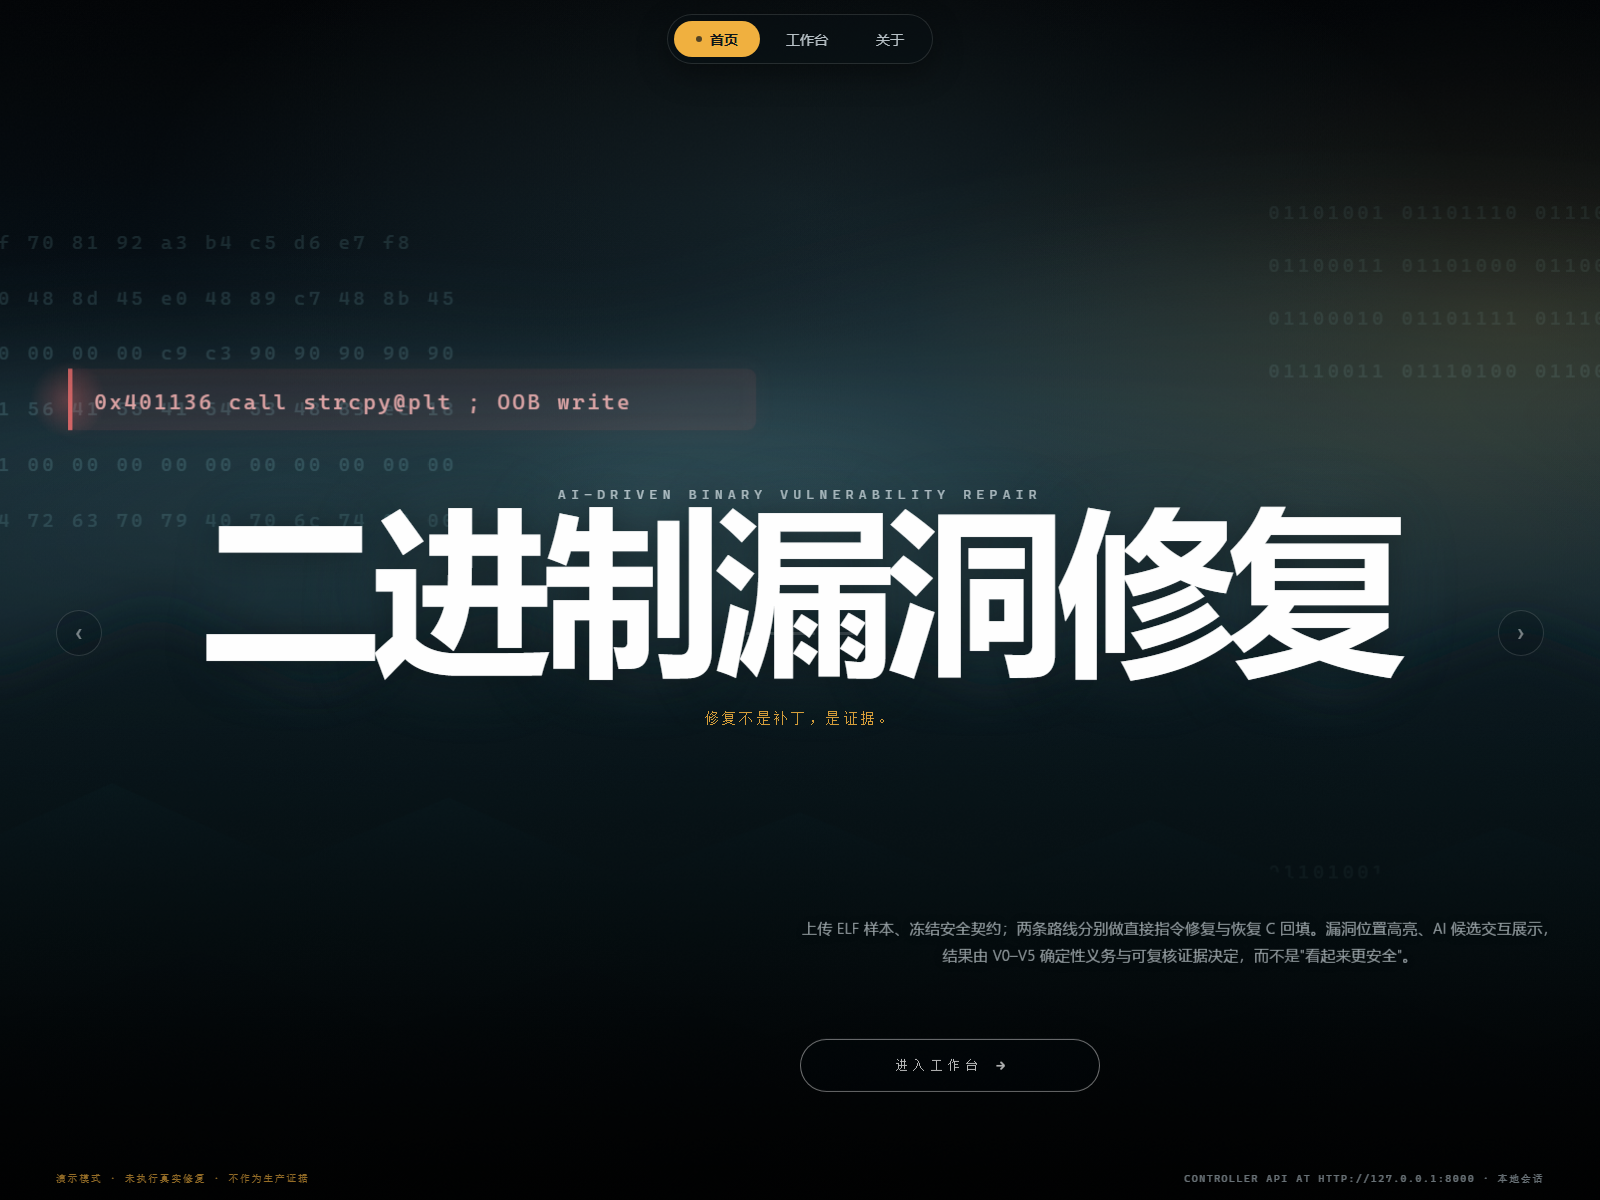
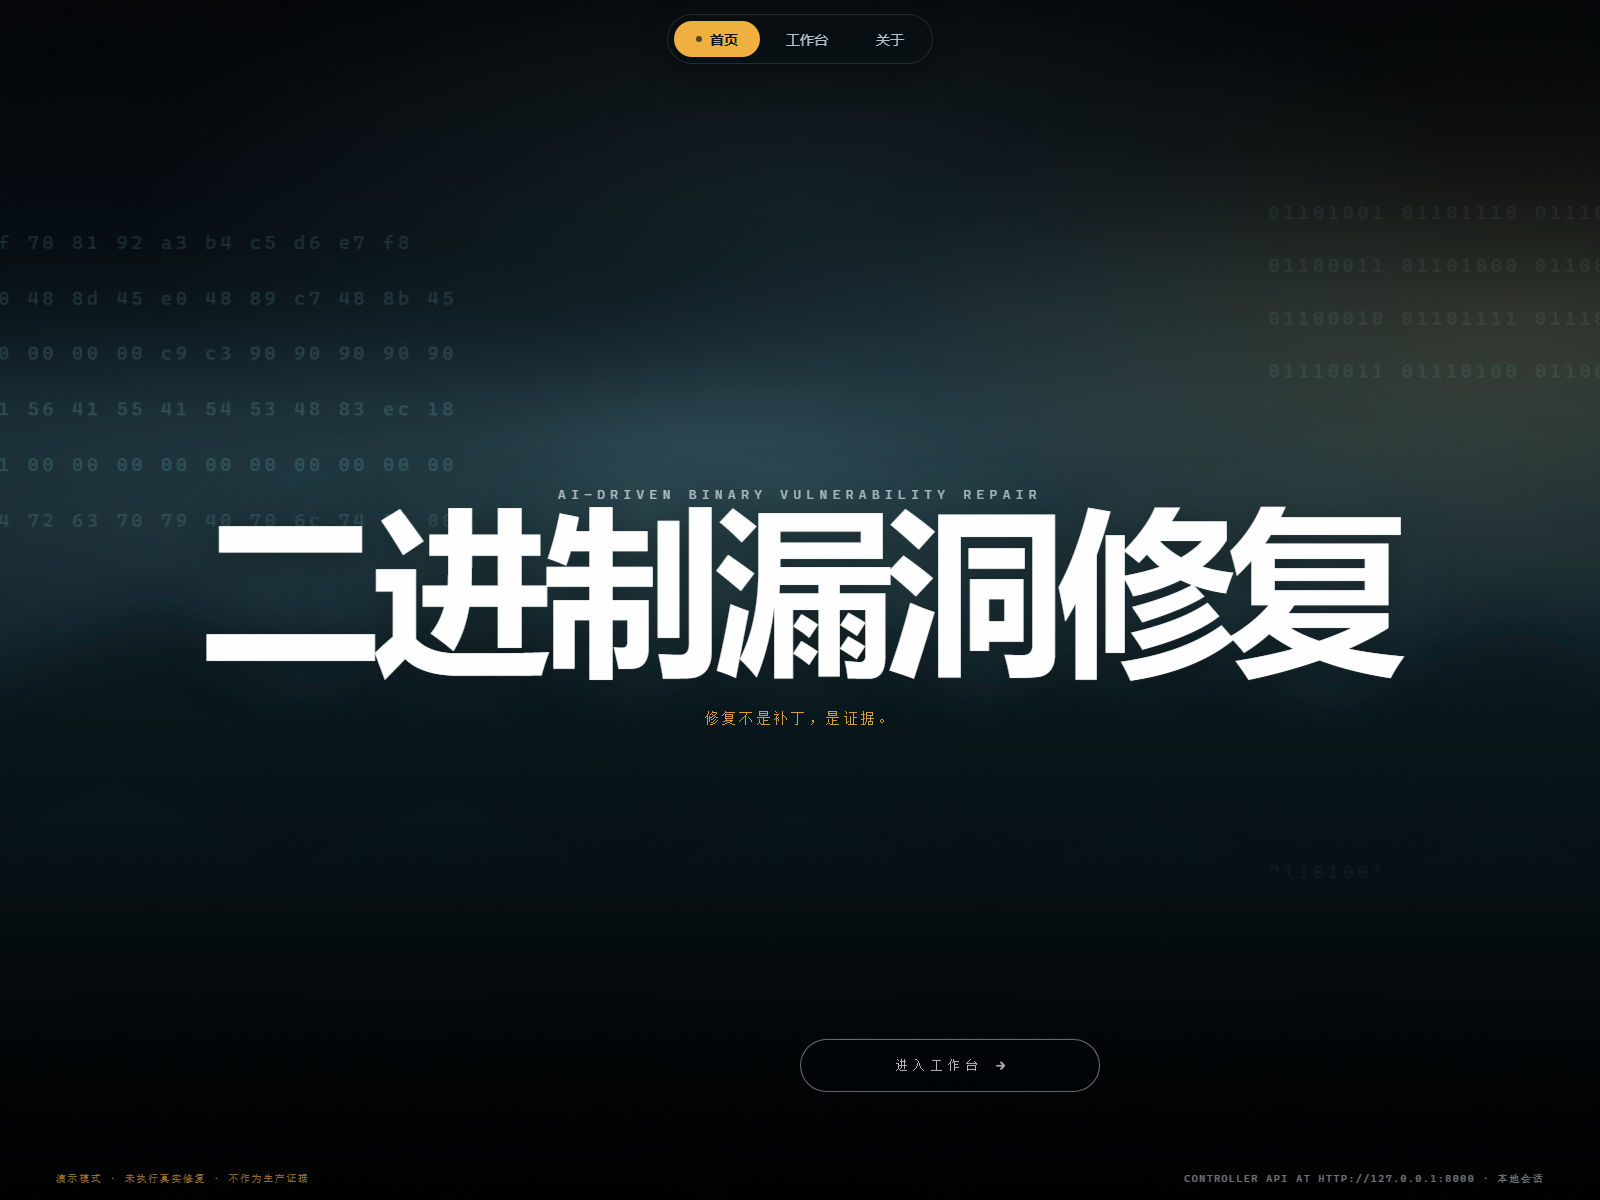
polish(landing): remove the description, slide dots and red highlight

diff --git a/app/static/js/landing.js b/app/static/js/landing.js
@@ -1,89 +1,21 @@
-/* Landing hero slides + about sheet. */
+/* Landing page: about sheet only (no slides). */
 (function () {
   "use strict";
 
-  var slides = [
-    {
-      eyebrow: "AI-DRIVEN BINARY VULNERABILITY REPAIR",
-      body: "上传 ELF 样本、冻结安全契约；两条路线分别做直接指令修复与恢复 C 回填。漏洞位置高亮、AI 候选交互展示，结果由 V0–V5 确定性义务与可复核证据决定，而不是\u201c看起来更安全\u201d。"
-    },
-    {
-      eyebrow: "DISASSEMBLY · VULNERABILITY HIGHLIGHT",
-      body: "反汇编与恢复 C 双视图：漏洞指令/行红色高亮，修复后新增行与差异行可切换，点击任意高亮行查看地址、改动原因与对应契约。"
-    },
-    {
-      eyebrow: "CONTRACT · REVISION · V0\u2013V5 EVIDENCE",
-      body: "契约修改会生成新 revision 并清除批准，陈旧 revision 或哈希返回 409；导出包含义务结论、范围假设与产物哈希，证据可被独立复核。"
-    }
-  ];
-
-  var root = document.querySelector(".hero-info");
-  var eyebrow = document.querySelector('[data-slide="eyebrow"]');
-  var line = document.querySelector('[data-slide="body"]');
-  var dots = Array.prototype.slice.call(document.querySelectorAll("[data-slide-dot]"));
-  var index = 0;
-  var timer = null;
-
-  function render(next) {
-    index = (next + slides.length) % slides.length;
-    root.classList.add("is-changing");
-    eyebrow.style.opacity = "0";
-    window.setTimeout(function () {
-      eyebrow.textContent = slides[index].eyebrow;
-      line.textContent = slides[index].body;
-      dots.forEach(function (dot, i) {
-        var active = i === index;
-        dot.classList.toggle("is-active", active);
-        dot.setAttribute("aria-selected", active ? "true" : "false");
-      });
-      root.classList.remove("is-changing");
-      eyebrow.style.opacity = "";
-    }, 200);
-  }
-
-  function start() {
-    stop();
-    timer = window.setInterval(function () { render(index + 1); }, 8000);
-  }
-  function stop() {
-    if (timer) { window.clearInterval(timer); timer = null; }
-  }
-
-  document.querySelectorAll("[data-slide-prev]").forEach(function (button) {
-    button.addEventListener("click", function () { render(index - 1); start(); });
-  });
-  document.querySelectorAll("[data-slide-next]").forEach(function (button) {
-    button.addEventListener("click", function () { render(index + 1); start(); });
-  });
-  dots.forEach(function (dot) {
-    dot.addEventListener("click", function () {
-      render(Number(dot.getAttribute("data-slide-dot")));
-      start();
-    });
-  });
-  document.addEventListener("keydown", function (event) {
-    if (event.key === "ArrowLeft") { render(index - 1); }
-    if (event.key === "ArrowRight") { render(index + 1); }
-  });
-
-  if (!window.matchMedia("(prefers-reduced-motion: reduce)").matches) {
-    start();
-    document.querySelector(".hero").addEventListener("mouseenter", stop);
-    document.querySelector(".hero").addEventListener("mouseleave", start);
-  }
-
-  /* About sheet */
   var sheet = document.querySelector("[data-about-sheet]");
+
   function openAbout() {
     if (!sheet) return;
     sheet.classList.remove("is-hidden");
     var close = sheet.querySelector("[data-about-close]");
     if (close) close.focus();
   }
+
   function closeAbout() {
     if (!sheet) return;
     sheet.classList.add("is-hidden");
   }
+
   document.querySelectorAll("[data-about]").forEach(function (link) {
     link.addEventListener("click", function (event) {
       event.preventDefault();

diff --git a/app/templates/landing.html b/app/templates/landing.html
@@ -22,22 +22,8 @@
     <h1 class="hero-h1">二进制漏洞修复</h1>
     <p class="hero-sub">修复不是补丁，是证据。</p>
 
-    <div class="hero-info" aria-live="polite">
-      <p><span class="slide-line" data-slide="body">上传 ELF 样本、冻结安全契约；两条路线分别做直接指令修复与恢复 C 回填。漏洞位置高亮、AI 候选交互展示，结果由 V0–V5 确定性义务与可复核证据决定，而不是"看起来更安全"。</span></p>
-    </div>
-
     <div class="hero-cta">
       <a class="cta-pill" href="/jobs/new" data-testid="landing-cta">进入工作台 <span class="arrow" aria-hidden="true">→</span></a>
-    </div>
-
-    <div class="hero-slider" aria-label="切换介绍">
-      <button type="button" class="slide-arrow" data-slide-prev aria-label="上一屏">‹</button>
-      <div class="slide-dots" role="tablist" aria-label="介绍分页">
-        <button type="button" role="tab" aria-selected="true" aria-label="第 1 屏" data-slide-dot="0"></button>
-        <button type="button" role="tab" aria-selected="false" aria-label="第 2 屏" data-slide-dot="1"></button>
-        <button type="button" role="tab" aria-selected="false" aria-label="第 3 屏" data-slide-dot="2"></button>
-      </div>
-      <button type="button" class="slide-arrow" data-slide-next aria-label="下一屏">›</button>
     </div>
 
     <footer class="hero-meta">

diff --git a/tests/e2e/test_gui_journey.py b/tests/e2e/test_gui_journey.py
@@ -102,9 +102,6 @@ def test_landing_hero_leads_to_workbench(mock_server, page):
     assert "二进制漏洞" in page.text(".hero-h1")
     assert "修复不是补丁" in page.text(".hero-sub")
 
-    page.click("[data-slide-next]")
-    page.wait_js("document.body.textContent.includes('DISASSEMBLY')", timeout=5)
-
     page.click('[data-testid="landing-cta"]')
     page.wait_js("location.pathname.endsWith('/jobs/new')", timeout=10)
 
